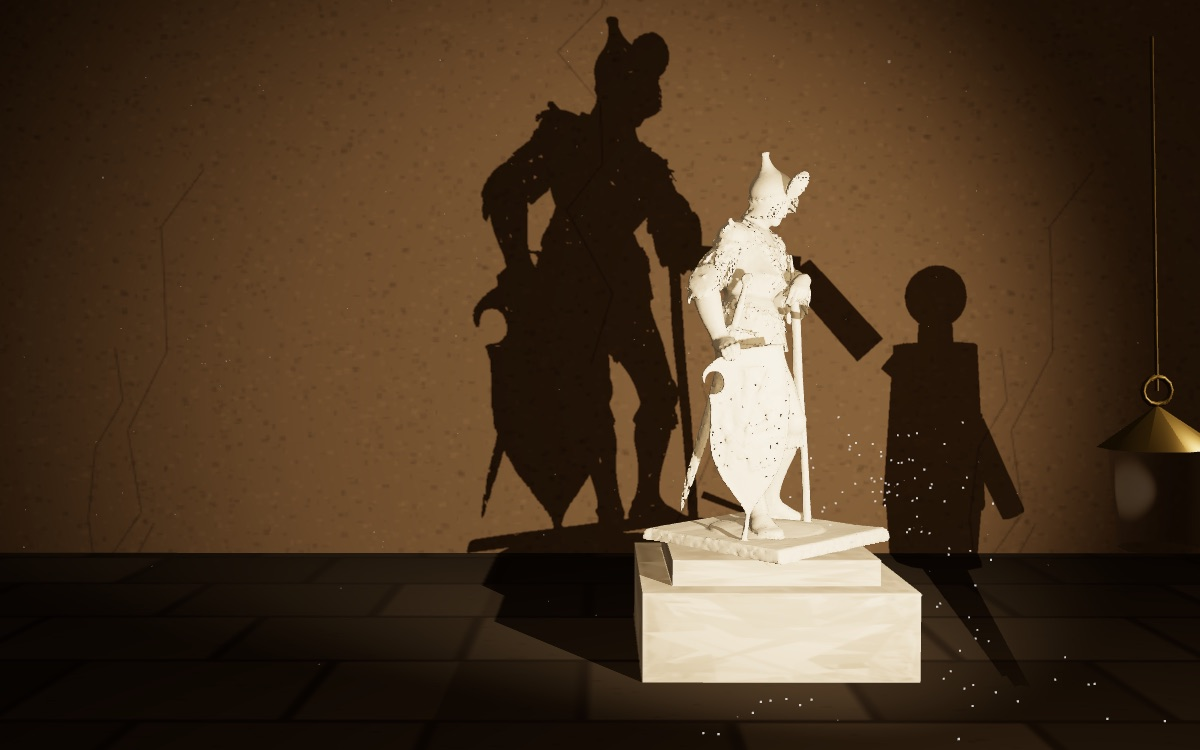
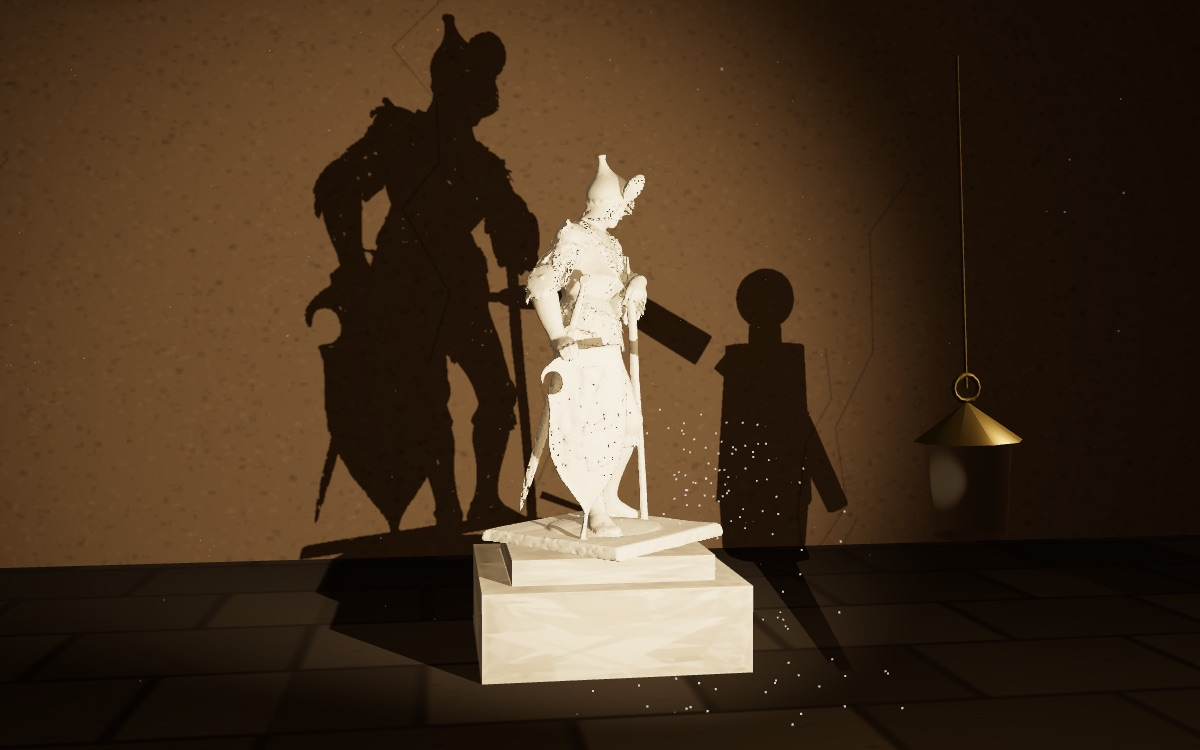
Glossaire : travail-aliene réécrite selon la charte, direction artistique « le chantier du palais »

diff --git a/glossaire/mondes/travail-aliene/essai.html b/glossaire/mondes/travail-aliene/essai.html
@@ -1,47 +1,83 @@
-<!-- L'ESSAI — le corps de /glossaire/travail-aliene. Même contrat que
-     fetichisme/essai.html. Ici data-s="3" = le Premier manuscrit dans la
-     liseuse des Manuscrits (parts[2] → section 3), traduction Bottigelli
-     servie en local : les citations sont relevées dans
-     oeuvres/manuscrits-1844/textes/premier-manuscrit.html. Le texte servi
-     porte des césures invisibles (U+00AD) dans certains mots : on ne cite
-     jamais une phrase qui en contient, la liseuse ne la retrouverait pas. -->
+<!-- L'ESSAI : le corps de /glossaire/travail-aliene.
+     Réécrit en octobre 2026 selon glossaire/mondes/CHARTE.md (modèle : la
+     page du fétichisme). Même contrat : une <section data-etape> par temps,
+     lue par la scène (monde.js) ; data-etape et id ne changent pas.
+     Ici data-s="3" = le Premier manuscrit dans la liseuse des Manuscrits
+     (parts[2] → section 3), traduction Émile Bottigelli servie en local
+     (oeuvres/manuscrits-1844/textes/premier-manuscrit.html), protégée
+     jusqu'en 2046. Les vingt-quatre courtes citations sont celles de la
+     version précédente, conservées sur arbitrage du propriétaire et
+     recopiées sans changer un caractère (apostrophe droite comprise, comme
+     dans le texte servi). On n'en ajoute AUCUNE : le reste est paraphrasé et
+     situé. Le texte servi porte des césures invisibles (U+00AD) dans
+     certains mots : on ne cite jamais une phrase qui en contient. -->
 
 <section class="nt-sec" data-etape="fait" id="fait">
-<h2>Un fait que l'économie ne comprend pas</h2>
-<p>Le travail aliéné est le premier concept que Marx ait formé en propre, et il le forme dans un manuscrit qu'il n'a pas publié, à vingt-six ans, en 1844, à Paris. Le texte a dormi jusqu'en 1932&nbsp;; on ne l'a lu qu'après le <i>Capital</i>, ce qui a durablement brouillé l'ordre dans lequel il faut le comprendre. Il faut donc commencer par ce que Marx fait dans ce cahier, et non par ce qu'on en a fait. Il lit les économistes, Smith, Say, Ricardo, et il en accepte le langage&nbsp;: <q data-s="3" data-q="Nous sommes partis des prémisses de l'économie politique">nous sommes partis des prémisses de l'économie politique</q>. Or, en suivant leurs propres lois, il aboutit à un résultat qu'elles constatent sans pouvoir l'expliquer&nbsp;:</p>
+<h2>De quel fait Marx part-il&nbsp;?</h2>
+<p class="nt-lead">D'un fait que les économistes de son temps constatent sans l'expliquer&nbsp;: l'ouvrier s'appauvrit à mesure qu'il produit davantage de richesse. Le concept de travail aliéné est la réponse de Marx à cette énigme.</p>
+<p>Marx forme ce concept en 1844, à Paris. Il a vingt-six ans, il lit les économistes, Smith, Say, Ricardo, et il prend des notes dans des cahiers qu'il ne publiera jamais. Ces cahiers ont dormi jusqu'en 1932. On les a donc lus après <i>Le Capital</i>, ce qui a longtemps brouillé l'ordre dans lequel il faut les comprendre. Mieux vaut commencer par ce que Marx fait dans ce texte. Il accepte d'abord le langage de ceux qu'il critique&nbsp;: <q data-s="3" data-q="Nous sommes partis des prémisses de l'économie politique">nous sommes partis des prémisses de l'économie politique</q>, écrit-il. Puis, en suivant leurs propres lois, il arrive à un résultat qu'elles ne savent pas lire&nbsp;:</p>
 <blockquote data-s="3" data-q="L'ouvrier devient d'autant plus pauvre qu'il produit plus de richesse"><p>L'ouvrier devient d'autant plus pauvre qu'il produit plus de richesse, que sa production croît en puissance et en volume. L'ouvrier devient une marchandise d'autant plus vile qu'il crée plus de marchandises.</p></blockquote>
-<p>La difficulté n'est pas le fait lui-même, car la misère de l'ouvrier au milieu de la richesse qu'il produit, tout le monde la voit&nbsp;; elle est dans ce que l'économie en fait. Elle <q data-s="3" data-q="part du fait de la propriété privée. Elle ne nous l'explique pas">part du fait de la propriété privée. Elle ne nous l'explique pas</q>&nbsp;; elle exprime le processus dans des formules générales qui prennent ensuite pour elle valeur de lois, et elle ne comprend pas ces lois, c'est-à-dire qu'elle ne montre pas comment elles résultent de l'essence de la propriété privée. Marx refuse aussi le remède habituel, qui consiste à se placer dans un état originel fabriqué de toutes pièces, comme le théologien explique le mal par le péché originel&nbsp;: <q data-s="3" data-q="Nous partons d'un fait économique actuel">nous partons d'un fait économique actuel</q>. C'est cette décision de méthode qui commande l'ordre de l'exposé, et il faut la suivre&nbsp;: du fait au rapport qu'il exprime, de ce rapport dans son résultat à ce rapport dans l'acte, de l'acte à ce qu'il fait de l'homme, et de l'homme à l'autre homme.</p>
+<p>Tout le monde voit la misère de l'ouvrier au milieu des richesses qu'il fabrique. La difficulté tient à ce que l'économie en fait. Elle <q data-s="3" data-q="part du fait de la propriété privée. Elle ne nous l'explique pas">part du fait de la propriété privée. Elle ne nous l'explique pas</q>&nbsp;: elle range ce qu'elle observe dans des formules générales, qu'elle tient ensuite pour des lois, sans montrer d'où ces lois viennent. Marx écarte aussi le remède habituel, qui consiste à imaginer un état originel des hommes, à la manière du théologien qui explique le mal par le péché originel. Lui veut partir de ce qu'on a sous les yeux&nbsp;: <q data-s="3" data-q="Nous partons d'un fait économique actuel">nous partons d'un fait économique actuel</q>.</p>
+<p>Ce choix de méthode commande la suite. Marx va du fait au rapport qu'il exprime, puis de ce rapport dans son résultat (le produit) à ce rapport dans l'acte (le travail), de l'acte à ce qu'il fait de l'homme, et de l'homme à l'autre homme. Ce sont les quatre déterminations du travail aliéné. Aliéner veut dire ici rendre étranger&nbsp;: chacune décrit une chose qui appartenait à l'ouvrier et qui lui devient étrangère.</p>
 </section>
 
 <section class="nt-sec" data-etape="objet" id="objet">
-<h2>Première détermination&nbsp;: le produit comme puissance étrangère</h2>
-<p>Le fait, dit Marx, n'exprime rien d'autre que ceci&nbsp;: <q data-s="3" data-q="l'objet que le travail produit, son produit">l'objet que le travail produit, son produit</q>, affronte l'ouvrier comme un être étranger, <q data-s="3" data-q="comme une puissance indépendante du producteur">comme une puissance indépendante du producteur</q>. Il faut lire avec soin la phrase qui suit, parce qu'elle contient la distinction dont tout dépend&nbsp;: <q data-s="3" data-q="Le produit du travail est le travail qui s'est fixé, concrétisé dans un objet, il est l'objectivation du travail">le produit du travail est le travail qui s'est fixé, concrétisé dans un objet, il est l'objectivation du travail</q>. L'objectivation (<i lang="de">Vergegenständlichung</i>) n'est pas l'aliénation. Que le travail se dépose dans un objet est le propre de tout travail, et Marx n'y voit aucun mal&nbsp;; c'est <i>au stade de l'économie</i>, c'est-à-dire sous la propriété privée, que cette objectivation apparaît comme la perte de l'objet, l'appropriation comme aliénation. Le mot allemand est tantôt <i lang="de">Entfremdung</i>, le devenir-étranger, tantôt <i lang="de">Entäusserung</i>, le dessaisissement&nbsp;; la traduction que ce site sert explique, dans une note, qu'elle a renoncé à tenir une nuance que Marx lui-même ne fait pas. On retiendra les deux idées ensemble&nbsp;: ce qui est à moi me devient étranger, et je m'en trouve dessaisi.</p>
-<p>La mesure de cette perte est donnée par une proportion, et Marx la formule en la rapprochant de la religion, comme Feuerbach lui en a donné le modèle&nbsp;: <q data-s="3" data-q="Plus l'homme met de choses en Dieu, moins il en garde en lui-même">plus l'homme met de choses en Dieu, moins il en garde en lui-même</q>. L'ouvrier met sa vie dans l'objet&nbsp;; mais alors elle appartient à l'objet, et <q data-s="3" data-q="plus ce produit est grand, moins il est lui-même">plus ce produit est grand, moins il est lui-même</q>. D'où la série d'antithèses que l'économie ne peut pas lire parce qu'elle ne regarde jamais le rapport direct de l'ouvrier à la production&nbsp;: le travail produit des merveilles pour les riches, mais le dénuement pour l'ouvrier&nbsp;; <q data-s="3" data-q="Il produit des palais, mais des tanières pour l'ouvrier">il produit des palais, mais des tanières pour l'ouvrier</q>&nbsp;; il produit la beauté, mais l'étiolement&nbsp;; il produit l'esprit, mais l'imbécillité. Ce ne sont pas des paradoxes rhétoriques&nbsp;: chaque terme du second membre est la condition du premier, dès lors que l'objet produit ne revient pas à celui qui l'a produit.</p>
+<h2>Pourquoi le produit se dresse-t-il devant celui qui l'a fait&nbsp;?</h2>
+<p class="nt-lead">Parce qu'il ne lui appartient pas. L'objet que l'ouvrier a fabriqué lui fait face comme une puissance indépendante, et plus cet objet est grand, plus l'ouvrier se trouve diminué.</p>
+<p>Le fait de départ, dit Marx, signifie ceci&nbsp;: <q data-s="3" data-q="l'objet que le travail produit, son produit">l'objet que le travail produit, son produit</q>, affronte l'ouvrier comme un être étranger, <q data-s="3" data-q="comme une puissance indépendante du producteur">comme une puissance indépendante du producteur</q>. La phrase suivante distingue deux choses qu'il faudra tenir séparées&nbsp;: <q data-s="3" data-q="Le produit du travail est le travail qui s'est fixé, concrétisé dans un objet, il est l'objectivation du travail">le produit du travail est le travail qui s'est fixé, concrétisé dans un objet, il est l'objectivation du travail</q>. Objectiver, c'est faire passer son activité dans une chose. Tout travail le fait, et Marx n'y voit aucun mal. Ce qui fait problème, c'est la forme que prend cette objectivation sous la propriété privée&nbsp;: l'objet produit devient pour l'ouvrier un objet perdu.</p>
+<p>Le vocabulaire allemand garde la trace de cette double idée. Marx emploie tantôt <i lang="de">Entfremdung</i>, qui insiste sur l'étranger, tantôt <i lang="de">Entäusserung</i>, qui insiste sur la dépossession. La traduction que sert ce site explique, dans une note, qu'elle a renoncé à tenir une nuance que Marx lui-même emploie sans la marquer. On retiendra les deux ensemble&nbsp;: ce qui était à moi me devient étranger, et j'en suis dessaisi.</p>
+<p>Marx mesure cette perte par une proportion, et il la tire de la critique de la religion que Feuerbach venait de proposer&nbsp;: <q data-s="3" data-q="Plus l'homme met de choses en Dieu, moins il en garde en lui-même">plus l'homme met de choses en Dieu, moins il en garde en lui-même</q>. L'ouvrier met sa vie dans l'objet, et cette vie appartient alors à l'objet&nbsp;; <q data-s="3" data-q="plus ce produit est grand, moins il est lui-même">plus ce produit est grand, moins il est lui-même</q>. De là une série d'antithèses que l'économie ne peut pas voir, parce qu'elle ne regarde jamais le rapport direct de l'ouvrier à ce qu'il produit. Le travail produit des merveilles pour les riches et le dénuement pour l'ouvrier&nbsp;; <q data-s="3" data-q="Il produit des palais, mais des tanières pour l'ouvrier">il produit des palais, mais des tanières pour l'ouvrier</q>. Les deux membres de chaque antithèse sont liés&nbsp;: le palais grandit avec ce que l'ouvrier n'a plus.</p>
+
+<div class="nt-ex">
+<p class="nt-ex-t">Un exemple</p>
+<p>Prenons un tailleur de pierre sur le chantier d'un palais, comme celui de la photographie en tête de page. Pendant des mois, il sculpte des guirlandes de fruits et des volutes. Chaque coup de ciseau est à lui&nbsp;: c'est son habileté, sa patience, des années d'apprentissage. Le soir, il est payé pour sa journée, puis il rentre dans le logement qu'il peut louer.</p>
+<p>La façade, achevée, ne lui doit plus rien. Elle appartient à celui qui l'a commandée, elle sert à d'autres, et l'ouvrier n'y entrera sans doute jamais. Ce qu'il y a mis le domine désormais de toute sa hauteur. L'exemple est construit pour la clarté, mais le mécanisme est celui que Marx décrit&nbsp;: plus l'ouvrage est beau, plus la part de vie qu'il a coûtée est passée du côté de quelqu'un d'autre.</p>
+</div>
+<div data-planche="close"></div>
 </section>
 
 <section class="nt-sec" data-etape="acte" id="acte">
-<h2>Deuxième détermination&nbsp;: l'activité elle-même</h2>
-<p>Marx ne s'arrête pas au produit, et c'est ici que le concept prend sa profondeur. Comment l'ouvrier affronterait-il en étranger le produit de son activité, demande-t-il, si dans l'acte même de produire il ne devenait pas étranger à lui-même&nbsp;? Le produit n'est que le résumé de l'activité&nbsp;: <q data-s="3" data-q="la production elle-même doit être l'aliénation en acte">la production elle-même doit être l'aliénation en acte</q>. En quoi consiste-t-elle&nbsp;? D'abord en ceci que le travail est extérieur à l'ouvrier, qu'il n'appartient pas à son essence, et que dans son travail il ne s'affirme pas mais se nie. La phrase que tout lecteur retient dit cela sans commentaire&nbsp;:</p>
+<h2>Comment le travail lui-même devient-il étranger&nbsp;?</h2>
+<p class="nt-lead">Le produit ne fait que résumer l'activité qui l'a fait. Si l'ouvrier perd l'objet, c'est que, pendant qu'il le fabriquait, son travail appartenait déjà à un autre.</p>
+<p>Marx ne s'arrête pas au produit. Comment l'ouvrier pourrait-il affronter son produit comme une chose étrangère, demande-t-il, s'il ne devenait pas étranger à lui-même dans l'acte même de produire&nbsp;? Le résultat suppose le procès&nbsp;: <q data-s="3" data-q="la production elle-même doit être l'aliénation en acte">la production elle-même doit être l'aliénation en acte</q>. Le travail est extérieur à l'ouvrier, il n'appartient pas à ce qu'il est, et l'ouvrier ne s'y affirme pas. Marx le dit en une phrase que tout lecteur retient&nbsp;:</p>
 <blockquote data-s="3" data-q="quand il travaille, il ne se sent pas chez lui"><p>Il est comme chez lui quand il ne travaille pas et, quand il travaille, il ne se sent pas chez lui. Son travail n'est donc pas volontaire, mais contraint, c'est du travail forcé.</p></blockquote>
-<p>Le travail n'est alors plus la satisfaction d'un besoin mais un moyen de satisfaire des besoins en dehors de lui, et son caractère étranger se reconnaît à un signe pratique&nbsp;: dès qu'il n'existe pas de contrainte, <q data-s="3" data-q="le travail est fui comme la peste">le travail est fui comme la peste</q>. Enfin, dans le travail, l'ouvrier ne s'appartient pas&nbsp;: son activité appartient à un autre, comme dans la religion l'activité propre de l'imagination humaine agit sur l'individu en activité étrangère, divine ou diabolique. Marx en tire une conséquence qu'on a souvent citée en la détachant de sa démonstration, alors qu'elle en est le terme&nbsp;: l'homme ne se sent plus librement actif que dans ses fonctions animales, manger, boire, procréer, et <q data-s="3" data-q="Le bestial devient l'humain et l'humain devient le bestial">le bestial devient l'humain et l'humain devient le bestial</q>. Manger et boire sont des fonctions humaines&nbsp;; c'est leur séparation d'avec le reste, et leur promotion en fin unique, qui les rend bestiales.</p>
-<p>On notera l'ordre. La première détermination portait sur le résultat, la seconde sur l'acte, et la seconde fonde la première&nbsp;: <q data-s="3" data-q="L'aliénation de soi comme, plus haut, l'aliénation de la chose">l'aliénation de soi comme, plus haut, l'aliénation de la chose</q>. Ce n'est pas parce que le produit est ôté à l'ouvrier que son travail lui devient étranger&nbsp;; c'est parce que son travail est déjà l'activité d'un autre que le produit lui échappe.</p>
+<p>Un tel travail ne satisfait plus un besoin&nbsp;: il sert à satisfaire des besoins situés hors de lui. On le reconnaît à un signe pratique. Dès qu'aucune contrainte ne pèse, <q data-s="3" data-q="le travail est fui comme la peste">le travail est fui comme la peste</q>. Pendant qu'il travaille, l'ouvrier ne s'appartient pas, son activité est celle d'un autre. Marx reprend ici la comparaison religieuse&nbsp;: dans la religion aussi, ce que produit l'imagination humaine revient sur l'individu comme une puissance étrangère, divine ou diabolique.</p>
+<p>Il en tire une conséquence qu'on cite souvent sans sa démonstration. L'homme ne se sent plus librement actif que dans ses fonctions animales, manger, boire, procréer, si bien que <q data-s="3" data-q="Le bestial devient l'humain et l'humain devient le bestial">le bestial devient l'humain et l'humain devient le bestial</q>. Manger et boire sont des fonctions humaines. Elles deviennent bestiales quand on les sépare du reste de la vie pour en faire le seul but. Dans cet exposé, la deuxième détermination fonde la première&nbsp;: Marx parle de <q data-s="3" data-q="L'aliénation de soi comme, plus haut, l'aliénation de la chose">l'aliénation de soi comme, plus haut, l'aliénation de la chose</q>. Le produit échappe à l'ouvrier parce que son travail était déjà l'activité d'un autre.</p>
 </section>
 
 <section class="nt-sec" data-etape="genre" id="genre">
-<h2>Troisième détermination&nbsp;: l'être générique</h2>
-<p><q data-s="3" data-q="nous avons encore à tirer des deux précédentes, une troisième détermination du travail aliéné">Nous avons encore à tirer des deux précédentes, une troisième détermination du travail aliéné</q>, écrit Marx, et le mot «&nbsp;tirer&nbsp;» dit la méthode&nbsp;: les déterminations se déduisent l'une de l'autre, elles ne s'additionnent pas. La troisième requiert un concept que Marx emprunte à Feuerbach et à Hegel, et que le lecteur d'aujourd'hui doit reconstruire&nbsp;: <q data-s="3" data-q="L'homme est un être générique">l'homme est un être générique</q>, <i lang="de">Gattungswesen</i>. Cela ne signifie pas que l'homme appartient à une espèce, ce qui vaut de tout animal, mais qu'il fait de son genre son objet, qu'il se comporte vis-à-vis de lui-même comme vis-à-vis d'un être universel, donc libre. La preuve en est dans l'activité&nbsp;: l'animal s'identifie directement avec son activité vitale, il <i>est</i> cette activité&nbsp;; l'homme fait de son activité vitale l'objet de sa volonté et de sa conscience, et <q data-s="3" data-q="l'activité libre, consciente, est le caractère générique de l'homme">l'activité libre, consciente, est le caractère générique de l'homme</q>. Certes l'animal aussi produit, l'abeille, le castor, la fourmi&nbsp;; mais il ne produit que ce dont il a immédiatement besoin, à la mesure de son espèce, tandis que l'homme produit même libéré du besoin, à la mesure de toute espèce, et <q data-s="3" data-q="l'homme façonne donc aussi d'après les lois de la beauté">façonne donc aussi d'après les lois de la beauté</q>.</p>
-<p>C'est dans l'élaboration du monde objectif que l'homme fait ses preuves d'être générique&nbsp;; la production est sa vie générique active, et par elle la nature apparaît comme son œuvre. Or le travail aliéné renverse ce rapport&nbsp;: il fait de la vie générique un moyen de la vie individuelle, il réduit l'activité libre et consciente à un moyen de conserver l'existence physique. Le travail aliéné <q data-s="3" data-q="fait pour lui de la vie générique le moyen de la vie individuelle">fait pour lui de la vie générique le moyen de la vie individuelle</q>&nbsp;: la vie elle-même n'y apparaît plus que comme moyen de subsistance. Ce qui distinguait l'homme de l'animal, que sa vie soit pour lui un objet, devient ce par quoi il en est dépossédé&nbsp;: précisément parce qu'il est un être conscient, il peut faire de son essence un simple moyen de son existence. La troisième détermination n'ajoute donc pas un domaine de plus à l'aliénation&nbsp;; elle dit ce que les deux premières font <i>à l'humanité de l'homme</i>, et c'est pourquoi elle vient après elles.</p>
+<h2>Que fait le travail aliéné à l'humanité de l'homme&nbsp;?</h2>
+<p class="nt-lead">L'homme se distingue par une activité libre et consciente, capable de produire selon toutes les mesures. Le travail aliéné réduit cette activité à un moyen de rester en vie.</p>
+<p><q data-s="3" data-q="nous avons encore à tirer des deux précédentes, une troisième détermination du travail aliéné">Nous avons encore à tirer des deux précédentes, une troisième détermination du travail aliéné</q>, écrit Marx. Le verbe compte&nbsp;: les déterminations se déduisent l'une de l'autre, elles ne s'ajoutent pas comme les articles d'une liste. La troisième demande un concept que Marx emprunte à Feuerbach et à Hegel&nbsp;: <q data-s="3" data-q="L'homme est un être générique">l'homme est un être générique</q> (<i lang="de">Gattungswesen</i>). L'expression ne veut pas seulement dire que l'homme appartient à une espèce, ce qui vaut de tout animal. Elle veut dire que l'homme fait de son genre, de l'humanité, l'objet de sa pensée et de son action, et qu'il se rapporte à lui-même comme à un être universel, donc libre.</p>
+<p>La preuve se trouve dans l'activité. L'animal ne se distingue pas de son activité vitale&nbsp;: il est cette activité. L'homme fait de la sienne l'objet de sa volonté et de sa conscience, et <q data-s="3" data-q="l'activité libre, consciente, est le caractère générique de l'homme">l'activité libre, consciente, est le caractère générique de l'homme</q>. L'animal produit aussi, l'abeille, le castor ou la fourmi. Mais il ne produit que ce dont il a immédiatement besoin, selon la mesure de son espèce. L'homme produit même libéré du besoin, il sait produire selon la mesure de toute espèce, et il <q data-s="3" data-q="l'homme façonne donc aussi d'après les lois de la beauté">façonne donc aussi d'après les lois de la beauté</q>.</p>
+<p>C'est en transformant le monde que l'homme se montre être générique&nbsp;: par la production, la nature apparaît comme son œuvre. Le travail aliéné renverse ce rapport. Il <q data-s="3" data-q="fait pour lui de la vie générique le moyen de la vie individuelle">fait pour lui de la vie générique le moyen de la vie individuelle</q>&nbsp;: l'activité libre et consciente ne sert plus qu'à assurer la subsistance physique. Ce qui distinguait l'homme de l'animal, le fait que sa vie soit pour lui un objet, devient ce par quoi il en est dépossédé. Parce qu'il est conscient, il peut faire de son essence un simple moyen de son existence. Cette troisième détermination dit ce que les deux premières font à l'humanité de l'homme, et c'est pourquoi elle vient après elles.</p>
 </section>
 
 <section class="nt-sec" data-etape="autre" id="autre">
-<h2>Quatrième détermination, et ce que le concept ouvre</h2>
-<p>La quatrième détermination est présentée comme une conséquence immédiate des trois autres&nbsp;: <q data-s="3" data-q="l'homme est rendu étranger à l'homme">l'homme est rendu étranger à l'homme</q>. <q data-s="3" data-q="Lorsque l'homme est en face de lui-même, c'est l'autre qui lui fait face">Lorsque l'homme est en face de lui-même, c'est l'autre qui lui fait face</q>&nbsp;: ce qui est vrai du rapport de l'homme à son travail, à son produit et à lui-même est vrai de son rapport à l'autre, au travail et au produit de l'autre. Et cette détermination est celle qui fait sortir le concept de la description pour le rendre explicatif. Car si le produit de l'ouvrier ne lui appartient pas, à qui appartient-il&nbsp;? Ni aux dieux, ni à la nature, dit Marx&nbsp;: à un autre homme. Le travail aliéné engendre donc <i>le rapport d'un homme étranger au travail</i>, placé en dehors de lui&nbsp;: le capitaliste, ou le maître du travail, quel que soit le nom qu'on lui donne. D'où la thèse qui renverse l'économie politique sur son propre terrain&nbsp;:</p>
+<h2>À qui appartient le produit, et qu'en conclure sur la propriété privée&nbsp;?</h2>
+<p class="nt-lead">Le produit appartient à un autre homme, le maître du travail. La propriété privée apparaît alors comme la conséquence du travail aliéné, qui ne devient qu'ensuite sa condition.</p>
+<p>La quatrième détermination est une conséquence immédiate des trois autres&nbsp;: <q data-s="3" data-q="l'homme est rendu étranger à l'homme">l'homme est rendu étranger à l'homme</q>. Ce qui vaut du rapport de l'ouvrier à son travail, à son produit et à lui-même vaut aussi de son rapport à l'autre, au travail et au produit de l'autre. <q data-s="3" data-q="Lorsque l'homme est en face de lui-même, c'est l'autre qui lui fait face">Lorsque l'homme est en face de lui-même, c'est l'autre qui lui fait face</q>.</p>
+<p>Avec cette détermination, le concept cesse de décrire et commence à expliquer. Si le produit de l'ouvrier ne lui appartient pas, à qui appartient-il&nbsp;? Ni aux dieux, ni à la nature, répond Marx&nbsp;: à un autre homme. Le travail aliéné engendre ainsi le rapport à un homme placé hors du travail, qui en dispose, le capitaliste ou le maître du travail, quel que soit le nom qu'on lui donne. Marx peut alors retourner l'économie politique sur son propre terrain&nbsp;:</p>
 <blockquote data-s="3" data-q="La propriété privée est donc le produit"><p>La propriété privée est donc le produit, le résultat, la conséquence nécessaire du travail aliéné, du rapport extérieur de l'ouvrier à la nature et à lui-même.</p></blockquote>
-<p>L'économie posait la propriété privée comme un fait premier, dont le travail salarié découlerait&nbsp;; Marx montre qu'elle en est la conséquence, comme les dieux ne sont pas la cause mais l'effet de l'aberration de l'entendement humain, et il ajoute aussitôt que <q data-s="3" data-q="Plus tard, ce rapport se change en action réciproque">plus tard, ce rapport se change en action réciproque</q>. La <a href="/glossaire/propriete-privee">propriété privée</a> n'est donc pas une chose que l'on possède mais un rapport que l'on produit, et c'est ce déplacement qui ouvre les deux suites du concept. La première est dans les cahiers eux-mêmes&nbsp;: si la propriété privée résulte de l'aliénation, son abolition ne peut être qu'un mouvement qui réapproprie l'essence humaine, ce que le troisième manuscrit nomme <a href="/glossaire/communisme">communisme</a>. La seconde est dans le <i>Capital</i>, vingt ans plus tard&nbsp;: le renversement par lequel le produit domine le producteur y reparaît, mais fondé cette fois sur l'analyse de la valeur, sous le nom de <a href="/glossaire/fetichisme">fétichisme</a>, et le «&nbsp;travailleur libre&nbsp;» du chapitre VI est celui dont ces pages avaient décrit la liberté vide, <a href="/glossaire/force-de-travail">libre de tout</a>.</p>
+<p>Les économistes posaient la propriété privée comme un fait premier, d'où découlerait le salariat. Marx la déduit du travail aliéné, comme Feuerbach déduisait les dieux de l'égarement de l'esprit humain. Il ajoute aussitôt que <q data-s="3" data-q="Plus tard, ce rapport se change en action réciproque">plus tard, ce rapport se change en action réciproque</q>&nbsp;: une fois établie, la propriété reproduit le travail qui l'a produite. La <a href="/glossaire/propriete-privee">propriété privée</a> devient donc un rapport entre des hommes, que leur travail produit et reproduit.</p>
+<p>Ce déplacement ouvre deux suites. La première est dans les mêmes cahiers&nbsp;: si la propriété privée résulte de l'aliénation, l'abolir revient à réapproprier ce que l'homme a perdu, et le troisième manuscrit appelle ce mouvement <a href="/glossaire/communisme">communisme</a>. La seconde est dans <i>Le Capital</i>, vingt ans plus tard. Le produit qui domine le producteur y reparaît, appuyé cette fois sur l'analyse de la valeur, sous le nom de <a href="/glossaire/fetichisme">fétichisme</a>&nbsp;; et le travailleur «&nbsp;libre&nbsp;» du chapitre VI a la liberté vide que ces pages décrivaient, celle d'un homme <a href="/glossaire/force-de-travail">libre de tout</a>.</p>
 </section>
 
 <section class="nt-sec" data-etape="lectures" id="lectures">
-<h2>Lectures, et contresens</h2>
-<p>Peu de textes de Marx ont autant divisé ses lecteurs, et la division tient d'abord à la date de publication. Découverts en 1932, les <i>Manuscrits</i> ont nourri une lecture humaniste, de Marcuse, qui les recensa dès leur parution, à Erich Fromm et à Henri Lefebvre, pour qui l'aliénation était le cœur de Marx et le <i>Capital</i> son application. Louis Althusser a répondu, dans <i>Pour Marx</i> (1965), par la thèse d'une coupure&nbsp;: le Marx de 1844 parlerait encore le langage de Feuerbach, celui de l'essence de l'homme, du genre et de l'aliénation, que le Marx de la maturité aurait abandonné pour la science des rapports de production. Il nous semble que les deux lectures ont raison contre l'autre et tort ensemble. Le concept de 1844 repose bien sur une anthropologie de l'être générique dont le <i>Capital</i> n'a plus besoin&nbsp;; mais le problème, celui de savoir comment ce que les hommes produisent en vient à les dominer, traverse toute l'œuvre, et la quatrième détermination, qui dérive le maître du travail aliéné au lieu de partir de lui, est déjà une analyse de rapport, non une plainte sur la nature humaine. Nous nous rangeons donc à la continuité du problème et au changement de terrain. Plus près de nous, Rahel Jaeggi a proposé de comprendre l'aliénation comme un «&nbsp;rapport d'absence de rapport&nbsp;», ce qui en fait un concept critique sans essence perdue&nbsp;; la formule rend bien la seconde détermination, et moins bien la quatrième.</p>
-<p>Trois contresens, enfin. Le premier fait de l'aliénation un sentiment&nbsp;: un malaise, un ennui, une souffrance au travail. Or Marx décrit un rapport, non un vécu&nbsp;; l'ouvrier peut aimer son métier, le rapport n'en est pas moins ce qu'il est, et c'est d'ailleurs ce qui distingue le concept de sa version psychologique. Le deuxième oppose un jeune Marx philosophe à un Marx économiste, comme si l'aliénation avait quitté l'œuvre&nbsp;; on a vu qu'elle en change de fondement, non d'objet. Le troisième lit l'être générique comme une nature humaine fixe que le travail aliéné défigurerait, et fait de Marx un romantique de l'essence perdue&nbsp;; mais l'être générique est une <i>activité</i>, libre, consciente et universelle, non un état, et l'aliénation ne le détruit pas, elle le retourne en moyen. Il n'y a rien à restaurer&nbsp;; il y a un rapport à changer.</p>
+<h2>Comment lire ce concept, et quels contresens éviter&nbsp;?</h2>
+<p class="nt-lead">La date de publication a partagé les lecteurs entre un Marx humaniste et un Marx savant. Le problème de l'aliénation traverse pourtant toute l'œuvre, même si le concept change de terrain.</p>
+<p>Découverts en 1932, les <i>Manuscrits</i> ont nourri une lecture humaniste. Herbert Marcuse en publie une recension dès leur parution&nbsp;; Erich Fromm et Henri Lefebvre y voient ensuite le cœur de la pensée de Marx, dont <i>Le Capital</i> serait l'application. Louis Althusser répond, dans <i>Pour Marx</i> (1965), par la thèse d'une coupure. Le Marx de 1844 parlerait encore le langage de Feuerbach, celui de l'essence de l'homme, du genre et de l'aliénation, et le Marx de la maturité l'aurait quitté pour la science des rapports de production.</p>
+<p>Chacune des deux lectures a raison contre l'autre. Le concept de 1844 repose bien sur une anthropologie de l'être générique dont <i>Le Capital</i> n'a plus besoin. Mais le problème, savoir comment ce que les hommes produisent en vient à les dominer, se retrouve d'un bout à l'autre de l'œuvre. Et la quatrième détermination, qui tire le maître du travail aliéné au lieu de partir de lui, est déjà l'analyse d'un rapport. Nous retenons donc la continuité du problème et le changement de terrain. Plus près de nous, la philosophe Rahel Jaeggi a proposé de comprendre l'aliénation comme un «&nbsp;rapport d'absence de rapport&nbsp;», ce qui en fait un concept critique sans essence perdue. La formule rend bien compte de la deuxième détermination, moins de la quatrième.</p>
+<div class="nt-cs">
+<p><span class="nt-cs-k">On lit souvent</span> L'aliénation serait un sentiment&nbsp;: un malaise, de l'ennui, une souffrance au travail.</p>
+<p><span class="nt-cs-k">Ce que dit le texte</span> Marx décrit un rapport entre l'ouvrier, son produit, son activité et les autres hommes. L'ouvrier peut aimer son métier&nbsp;: le rapport reste le même, puisque le produit et l'activité appartiennent toujours à un autre. C'est ce qui sépare le concept de sa version psychologique.</p>
+</div>
+<div class="nt-cs">
+<p><span class="nt-cs-k">On lit souvent</span> Toute objectivation serait une aliénation&nbsp;: produire un objet, ce serait déjà se perdre en lui.</p>
+<p><span class="nt-cs-k">Ce que dit le texte</span> Marx distingue les deux. Le travail se fixe toujours dans un objet, et c'est même par là que l'homme se montre être générique. L'objectivation devient perte de l'objet sous la propriété privée, quand le produit revient à un autre.</p>
+</div>
+<div class="nt-cs">
+<p><span class="nt-cs-k">On lit souvent</span> L'être générique serait une nature humaine fixe, que le travail aliéné défigurerait, et Marx rêverait de restaurer une essence perdue.</p>
+<p><span class="nt-cs-k">Ce que dit le texte</span> L'être générique est une activité, libre, consciente et universelle. Le travail aliéné ne la détruit pas&nbsp;: il la retourne en moyen de subsistance. Il n'y a rien à restaurer, il y a un rapport à changer.</p>
+</div>
 </section>

diff --git a/glossaire/mondes/travail-aliene/monde.js b/glossaire/mondes/travail-aliene/monde.js
@@ -283,9 +283,11 @@ window.LM_MONDE = function (canvas) {
     }
     /* la caméra : elle suit la coupe, recule pour voir la statue entière, s'approche du visage, redescend au socle */
     var cy = lerp(2.55, 1.35, 1 - st.cut);
-    /* on vise à GAUCHE de la statue : la colonne de texte occupe les 600
-       premiers pixels, la statue doit vivre dans la moitié droite */
-    var ax = STATUE.x - 0.85 + 0.25 * st.close, ay = lerp(cy, 1.2, ss(1.5, 2.2, G)); ay = lerp(ay, 1.95, st.close); ay = lerp(ay, 0.55, st.end);
+    /* on vise la STATUE : la scène est maintenant une figure 16/10 en bas
+       de page (CHARTE.md, « La figure »). L'ancien décalage à gauche, fait
+       pour la colonne de texte de l'architecture « plein », décentrait le
+       sujet dans la figure. */
+    var ax = STATUE.x, ay = lerp(cy, 1.2, ss(1.5, 2.2, G)); ay = lerp(ay, 1.95, st.close); ay = lerp(ay, 0.55, st.end);
     var cz = lerp(5.4, 3.4, st.close); cz = lerp(cz, 4.6, st.end);
     camera.position.set(0.7 + 0.02 * Math.sin(T * 0.3), lerp(cy + 0.15, 1.7, ss(1.5, 2.2, G)) + 0.015 * Math.sin(T * 0.41), cz);
     camera.position.y = lerp(camera.position.y, 1.95, st.close); camera.position.y = lerp(camera.position.y, 1.1, st.end);
